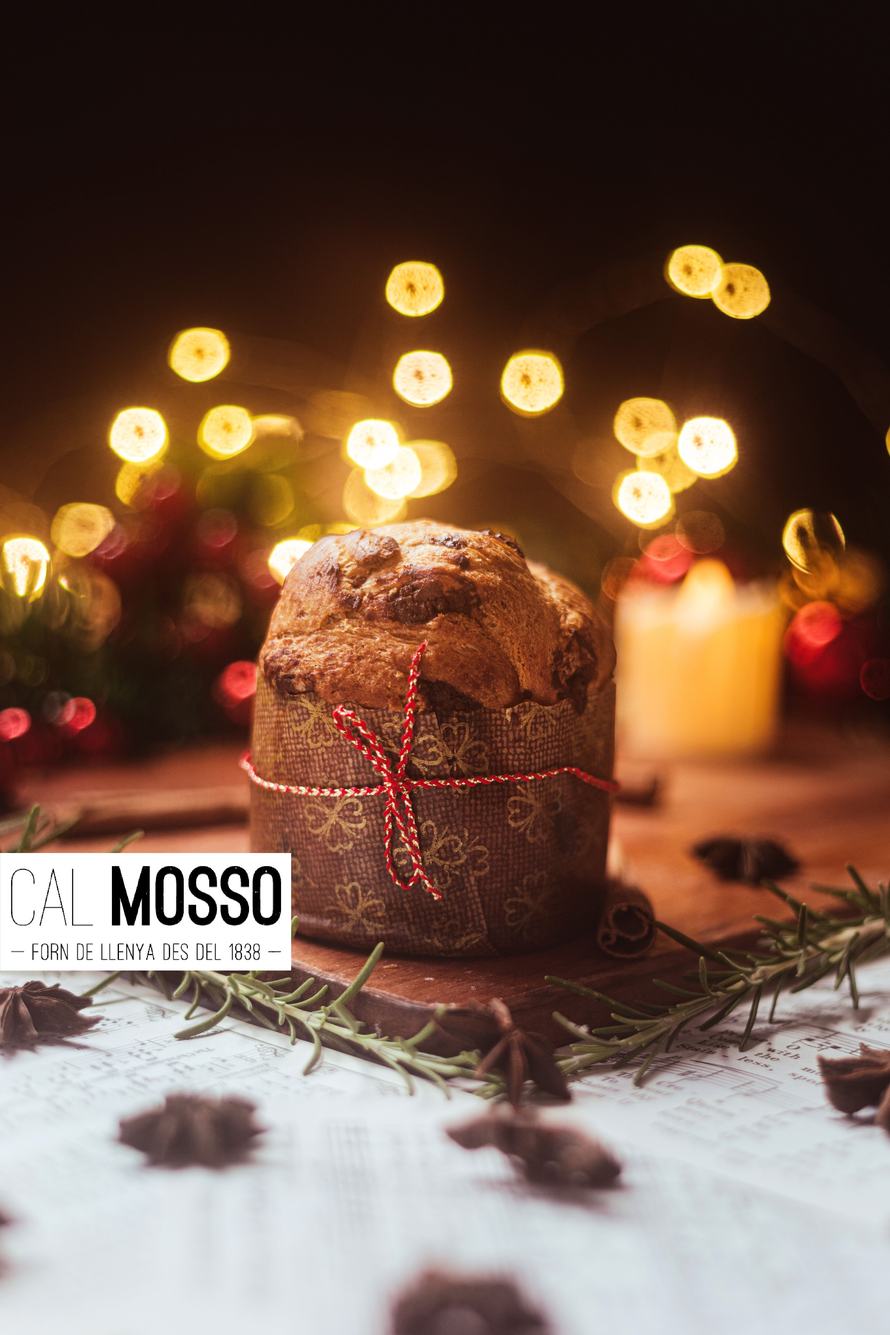
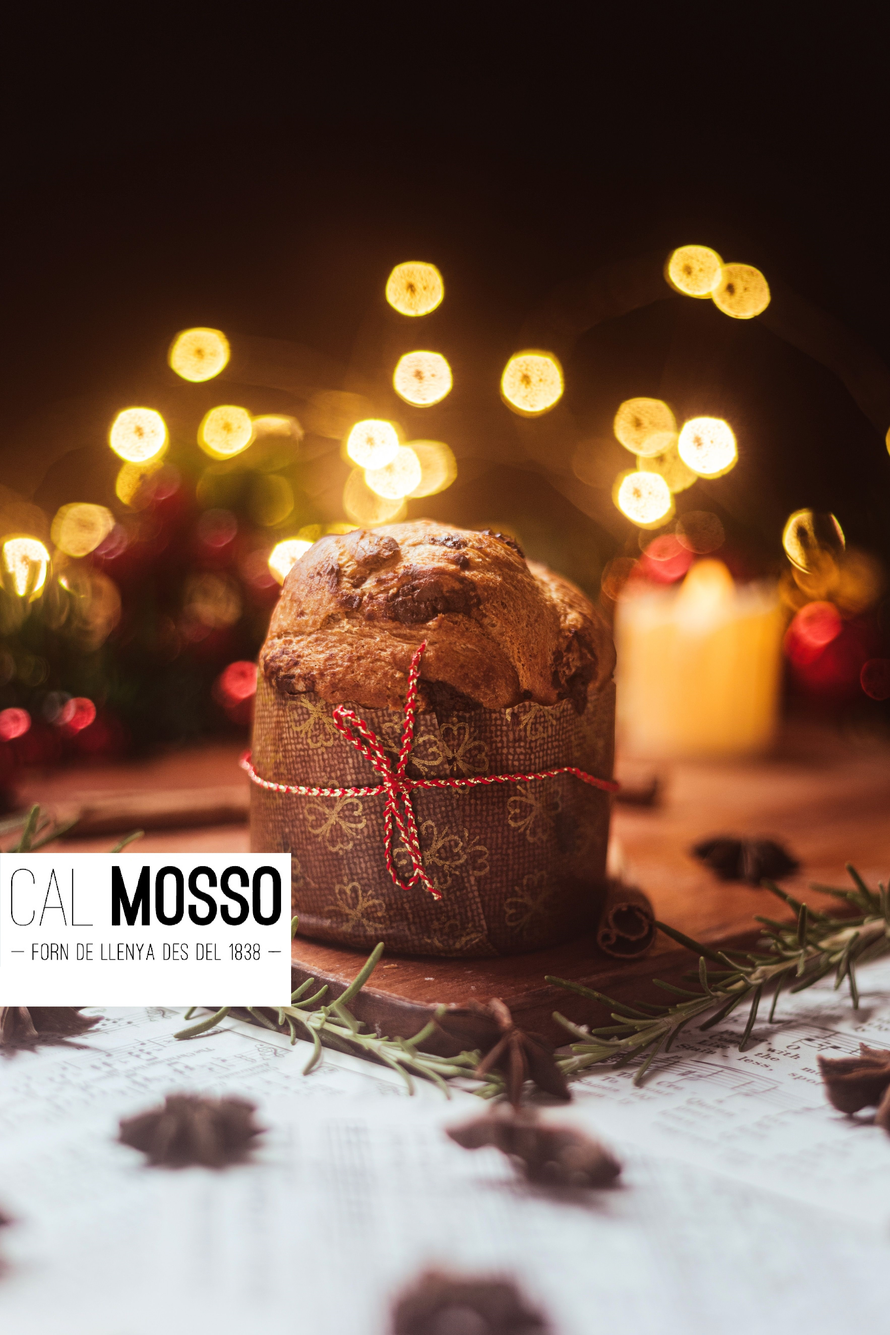
Add files via upload

Changed region(s): [[0.0, 0.7166, 0.3427, 0.7789]]

diff --git a/index.html b/index.html
@@ -191,14 +191,25 @@
 
 <!--  ARTICULOS  -->
 
-      <article class="product-card canva-card" data-category="dulces">
-       <img id="product-image-nougat" class="canva-image" src="https://images.pexels.com/photos/6208129/pexels-photo-6208129.jpeg" alt="Porcions de torró d'ametlla sobre una taula de fusta." loading="lazy">
+      <article class="product-card canva-card" data-category="despensa">
+       <img id="product-image-5j" class="canva-image" src="producto_joselito.jpg" alt="Paletilla Joselito 100% Ibérica de 5Kg." loading="lazy">
        <div class="product-body">
         <div class="product-label">
-         Dolços · Exemple
+         Paletilla · Joselito
         </div>
-        <h3>Torró d'ametlla</h3>
-        <p>Un clàssic nadalenc per compartir a la sobretaula.</p>
+        <h3>Paletilla 100% ibérica (5Kg)</h3>
+        <p>Paletilla <b>Joselito</b> 100% ibérica de 5Kg (aprox.) (valorada en 350€).</p>
+       </div>
+      </article>
+
+      <article class="product-card canva-card" data-category="experiencias">
+       <img id="product-image-5j" class="canva-image" src="producto_palaudelamusica.jpg" alt="Dues entrades per l'òpera al Palau de la Música." loading="lazy">
+       <div class="product-body">
+        <div class="product-label">
+         Òpera · Palau de la Música Catalana
+        </div>
+        <h3>Dues entrades per l'òpera</h3>
+        <p>Dues entrades per l'òpera "La Traviatta" al <b>Palau de la Música Catalana </b>.</p>
        </div>
       </article>
 
@@ -209,18 +220,7 @@
          Pannetone · Cal Mosso
         </div>
         <h3>Panettone</h3>
-        <p>Un deliciós Pannetone cortesia del forn Cal Mosso de Vilassar de Dalt.</p>
-       </div>
-      </article>
-
-      <article class="product-card canva-card" data-category="despensa">
-       <img id="product-image-oil" class="canva-image" src="https://images.pexels.com/photos/25745504/pexels-photo-25745504.jpeg" alt="Ampolla d'oli d'oliva al costat d'olives i branques d'olivera." loading="lazy">
-       <div class="product-body">
-        <div class="product-label">
-         Rebost · Exemple
-        </div>
-        <h3>Oli d'oliva</h3>
-        <p>Un ingredient mediterrani per als moments al voltant de la taula.</p>
+        <p>Un deliciós Pannetone (valorat en 30€) cortesia del forn <b>Cal Mosso</b> de Vilassar de Dalt.</p>
        </div>
       </article>
 
@@ -231,20 +231,54 @@
          Massatge · Perruqueria Nuova
         </div>
         <h3>Massatge 30 min.</h3>
-        <p>Massatge Ayurveda de 30 minuts cortesia de Perruqueria Nuova.</p>
+        <p>Massatge Ayurveda de 30 minuts cortesia de <b>Perruqueria Nuova</b>.</p>
        </div>
       </article>
 
-      <article class="product-card canva-card" data-category="dulces">
-       <img id="product-image-chocolate" class="canva-image" src="https://images.pexels.com/photos/36914958/pexels-photo-36914958.jpeg" alt="Selecció acolorida de xocolates artesanes." loading="lazy">
+      <article class="product-card canva-card" data-category="experiencias">
+       <img id="product-image-oil" class="canva-image" src="producto_calsenyor.jpg" alt="Vermut per a 2 persones al restaurant Cal Senyor de Vilassar de Dalt." loading="lazy">
        <div class="product-body">
         <div class="product-label">
-         Dolços · Exemple
+         Vermut per 2 · Restaurant Cal Senyor
         </div>
-        <h3>Xocolates</h3>
-        <p>Un capritx dolç que sempre ve de gust regalar i compartir.</p>
+        <h3>Vermut per 2 persones</h3>
+        <p>Vermut per a 2 persones al <b>Restaurant Cal Senyor</b> de Vilassar de Dalt.</p>
        </div>
       </article>
+
+      <article class="product-card canva-card" data-category="experiencias">
+       <img id="product-image-nougat" class="canva-image" src="producto_esthermartinez.jpg" alt="Una sessió de radiofreqüencia facial (Valorada en 60€) Esther Martínez Artigas." loading="lazy">
+       <div class="product-body">
+        <div class="product-label">
+         Sessió radiofreqüència facial · Esther Martínez Artigas
+        </div>
+        <h3>Sessió radiofreqüència facial</h3>
+        <p>Una sessió de radiofreqüencia facial (Valorada en 60€) <b>Esther Martínez Artigas</b>.</p>
+       </div>
+      </article>
+
+      <article class="product-card canva-card" data-category="experiencias">
+       <img id="product-image-chocolate" class="canva-image" src="producto_focuselite.jpg" alt="50% de Descompte en 1 mes d'entrenament funcional en grup." loading="lazy">
+       <div class="product-body">
+        <div class="product-label">
+         50% Descompte · Focus Élite
+        </div>
+        <h3>50% de Descompte</h3>
+        <p>50% de Descompte en 1 mes d'entrenament funcional en grup.</p>
+       </div>
+      </article>
+
+      <article class="product-card canva-card" data-category="despensa">
+       <img id="product-image-chocolate" class="canva-image" src="producto_nopatiskes.jpg" alt="Una ampolla de vermut." loading="lazy">
+       <div class="product-body">
+        <div class="product-label">
+         Ampolla de Vermut · No Patiskes
+        </div>
+        <h3>Ampolla de vermut</h3>
+        <p>Una ampolla de vermut cortesia de <b>No Patiskes</b> vermut i tapeo.</p>
+       </div>
+      </article>
+
      </div>
      <p class="note">Els productes i les fotografies d'aquesta secció són exemples de presentació; no indiquen el contingut confirmat de la panera.</p>
     </div>
@@ -266,7 +300,7 @@
      <div class="collab-grid">
 
       <article class="collab-card canva-card">
-       <img id="product-image-nougat" class="canva-image"src="logo_PerruqueriaNuova.jpg" alt="Perruqueria Nuova." loading="lazy">
+       <img id="product-image-nougat" class="canva-image"src="logo_perruquerianuova.jpg" alt="Perruqueria Nuova." loading="lazy">
        <div class="collab-body">
         <h3>Perruqueria Nuova</h3>
        </div>
@@ -280,30 +314,30 @@
       </article>
 
       <article class="collab-card canva-card">
-       <img id="product-image-nougat" class="canva-image"src="logo_PerruqueriaNuova.jpg" alt="Perruqueria Nuova." loading="lazy">
+       <img id="product-image-nougat" class="canva-image"src="logo_esthermartinez.jpg" alt="Esther Martínez Artigas, belleza y bienestar." loading="lazy">
        <div class="collab-body">
-        <h3>Perruqueria Nuova</h3>
+        <h3>Esther Martínez Artigas, belleza y bienestar.</h3>
        </div>
       </article>
 
       <article class="collab-card canva-card">
-       <img id="product-image-nougat" class="canva-image"src="logo_PerruqueriaNuova.jpg" alt="Perruqueria Nuova." loading="lazy">
+       <img id="product-image-nougat" class="canva-image"src="logo_calsenyor.jpg" alt="Restaurant Cal Senyor." loading="lazy">
        <div class="collab-body">
-        <h3>Perruqueria Nuova</h3>
+        <h3>Restaurant Cal Senyor</h3>
        </div>
       </article>
 
       <article class="collab-card canva-card">
-       <img id="product-image-nougat" class="canva-image"src="logo_PerruqueriaNuova.jpg" alt="Perruqueria Nuova." loading="lazy">
+       <img id="product-image-nougat" class="canva-image"src="logo_focuselite.jpg" alt="Focus Elite." loading="lazy">
        <div class="collab-body">
-        <h3>Perruqueria Nuova</h3>
+        <h3>Focus Elite	</h3>
        </div>
       </article>
 
       <article class="collab-card canva-card">
-       <img id="product-image-nougat" class="canva-image"src="logo_PerruqueriaNuova.jpg" alt="Perruqueria Nuova." loading="lazy">
+       <img id="product-image-nougat" class="canva-image"src="logo_nopatiskes.jpg" alt="No Patiskes." loading="lazy">
        <div class="collab-body">
-        <h3>Perruqueria Nuova</h3>
+        <h3>No Patiskes, vermut i tapeo</h3>
        </div>
       </article>
 
